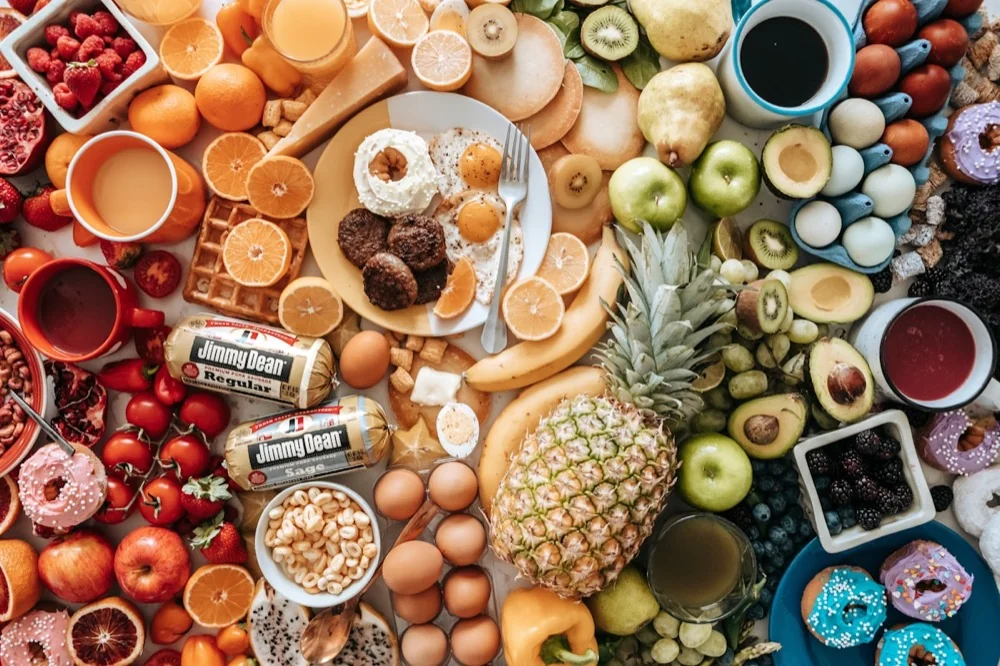
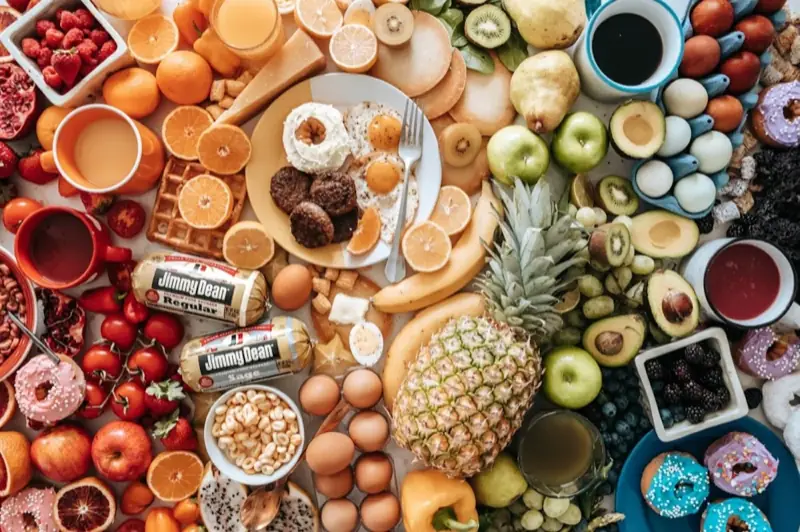
perf: optimize for Lighthouse 90+
- Fonts non-render-blocking (media=print onload trick)
- Removed unused font weights (Karla 300, Playfair 700)
- Re-compressed all images (1.2MB → 880KB)
- Fixed color contrast WCAG AA: terracotta, muted, gold, espresso-soft
- All text now meets 4.5:1 minimum contrast ratio

diff --git a/index.html b/index.html
@@ -45,11 +45,12 @@
   <link rel="icon" type="image/svg+xml" href="/img/favicon.svg">
   <link rel="apple-touch-icon" href="/img/apple-touch-icon.png">
 
-  <!-- Preconnect & Fonts -->
+  <!-- Preconnect & Fonts (non-render-blocking) -->
   <link rel="preconnect" href="https://fonts.googleapis.com">
   <link rel="preconnect" href="https://fonts.gstatic.com" crossorigin>
-  <link rel="preload" as="style" href="https://fonts.googleapis.com/css2?family=Karla:wght@300;400;500;600;700&family=Playfair+Display:ital,wght@0,400;0,700;1,400;1,700&family=Playfair+Display+SC:wght@400;700&display=swap">
-  <link href="https://fonts.googleapis.com/css2?family=Karla:wght@300;400;500;600;700&family=Playfair+Display:ital,wght@0,400;0,700;1,400;1,700&family=Playfair+Display+SC:wght@400;700&display=swap" rel="stylesheet">
+  <link rel="preload" as="style" href="https://fonts.googleapis.com/css2?family=Karla:wght@400;500;600;700&family=Playfair+Display:ital,wght@0,400;0,700;1,400&family=Playfair+Display+SC:wght@400;700&display=swap" crossorigin>
+  <link href="https://fonts.googleapis.com/css2?family=Karla:wght@400;500;600;700&family=Playfair+Display:ital,wght@0,400;0,700;1,400&family=Playfair+Display+SC:wght@400;700&display=swap" rel="stylesheet" media="print" onload="this.media='all'">
+  <noscript><link href="https://fonts.googleapis.com/css2?family=Karla:wght@400;500;600;700&family=Playfair+Display:ital,wght@0,400;0,700;1,400&family=Playfair+Display+SC:wght@400;700&display=swap" rel="stylesheet"></noscript>
 
   <!-- Stylesheets -->
   <link rel="stylesheet" href="/css/styles.css">

diff --git a/css/styles.css b/css/styles.css
@@ -13,12 +13,12 @@
   --sage-light: #A8B89A;
   --sage: #6B8E5A;
   --sage-deep: #2D5016;
-  --terracotta: #C65D3F;
-  --terracotta-deep: #9B4426;
-  --gold: #D4A574;
+  --terracotta: #A84B30;
+  --terracotta-deep: #8B3A20;
+  --gold: #B8893E;
   --espresso: #2A1F1A;
-  --espresso-soft: #4A3F36;
-  --muted: #8B7E6F;
+  --espresso-soft: #3D3428;
+  --muted: #6B5F52;
   --line: #E5DCC8;
   --white: #FFFFFF;
   --wa-green: #25D366;
